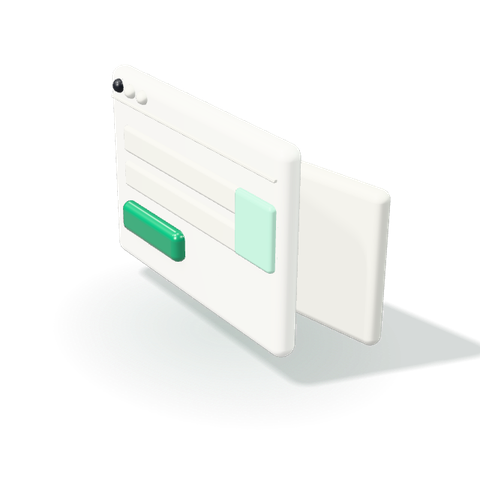
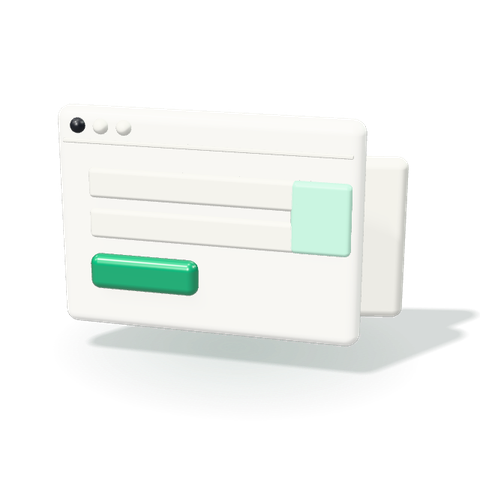
3D pictures face the viewer, with a slight turn
Claude-Session: https://claude.ai/code/session_01M8mVGp54qU5iD1TZV71TXS

Changed region(s): [[0.1562, 0.2812, 1.0, 0.8125], [0.125, 0.25, 0.2812, 0.3125], [0.2188, 0.1562, 0.3125, 0.2188]]

diff --git a/scripts/empty-art/scene.js b/scripts/empty-art/scene.js
@@ -128,7 +128,7 @@ const PICTURES = {
     const c2 = at(box(0.62, 0.26, 0.08, 0.12, M.paleBlue), 0.36, 0.84, 0.11);
     const btn = at(box(1.35, 0.34, 0.14, 0.16, M.ink), 0, 0.4, 0.13);
     const arrow = at(stroke([[-0.12, 0, 0], [0.12, 0, 0], [0.04, 0.08, 0], [0.12, 0, 0], [0.04, -0.08, 0]], 0.025, M.porcelain), 0, 0.4, 0.22);
-    return at(group(card, title, f1, f2, c1, c2, btn, arrow), 0, 0, 0, 0, -0.3, 0);
+    return at(group(card, title, f1, f2, c1, c2, btn, arrow), 0, 0, 0, 0, 0, 0);
   },
   /** Capture: a funnel with leads dropping in and one coming out green. */
   funnel() {
@@ -154,7 +154,7 @@ const PICTURES = {
       g.add(at(ball(0.07, dot), dx - 0.72, y + 0.17, 0.585 - dx * 0.6 + dx * 0.26));
       g.add(at(box(0.9, 0.08, 0.04, 0.03, mat === M.blue ? M.porcelain : M.shade), dx - 0.1, y + 0.17, 0.585 - dx * 0.6 + dx * 0.15));
     }
-    return at(g, 0, 0, 0, 0, -0.25, 0);
+    return at(g, 0, 0, 0, 0, 0, 0);
   },
   /** Chain: steps joined on a path, one branch reaching the green goal. */
   road() {
@@ -168,7 +168,7 @@ const PICTURES = {
     const flag = group(stroke([[0, 0, 0], [0, 1.05, 0]], 0.05, M.ink), at(box(0.5, 0.34, 0.06, 0.04, M.blue), 0.27, 0.86, 0));
     flag.position.set(0.85, 0.44, 0.75);
     g.add(flag);
-    return g;
+    return at(g, 0, 0, 0, 0.45, 0, 0);
   },
   /** Workflows: a paper plane on its way, with a green trail. */
   plane() {
@@ -184,7 +184,7 @@ const PICTURES = {
     };
     const plane = group(tri([N, L, C], M.porcelain), tri([N, C, R], M.paleShade), tri([N, K, C], M.shade), tri([N, C, K], M.shade));
     plane.scale.setScalar(1.25);
-    const PR = (params.get("rot") || "-0.25,0,-0.3,1.9").split(",").map(Number);
+    const PR = (params.get("rot") || "0.5,0,0,1.85").split(",").map(Number);
     plane.rotation.set(PR[0], PR[1], PR[2]);
     const flying = group(plane);
     flying.rotation.y = PR[3];
@@ -211,7 +211,7 @@ const PICTURES = {
     a2.rotation.y = Math.PI - 0.45;
     a2.position.set(-0.4, 1.65, -0.25);
     const a3 = at(arrow(1.1, M.shade), 0.38, 1.12, 0.12, 0, -0.45, 0);
-    return at(group(base, post, cap, a1, a2, a3), 0, 0, 0, 0, -0.25, 0);
+    return at(group(base, post, cap, a1, a2, a3), 0, 0, 0, 0, 0, 0);
   },
   /** Emails: a sealed envelope over a second one. */
   envelopes() {
@@ -224,7 +224,7 @@ const PICTURES = {
     seal.position.set(0, 0.62, 0.12);
     const l1 = stroke([[-0.98, 0.06, 0.11], [-0.3, 0.55, 0.11]], 0.02, M.shade);
     const l2 = stroke([[0.98, 0.06, 0.11], [0.3, 0.55, 0.11]], 0.02, M.shade);
-    return at(group(back, body, flap, seal, l1, l2), 0, 0, 0, 0, -0.3, 0);
+    return at(group(back, body, flap, seal, l1, l2), 0, 0, 0, 0, 0, 0);
   },
   /** Feed: a page with its form and the green button. */
   browser() {
@@ -236,7 +236,7 @@ const PICTURES = {
     const btn = at(box(0.8, 0.26, 0.14, 0.13, M.blue), -0.45, 0.46, 0.12);
     const pic = at(box(0.42, 0.52, 0.09, 0.04, M.paleBlue), 0.82, 0.97, 0.1);
     const back = at(box(1.6, 1.25, 0.16, 0.1, M.shade), 0.55, 0.62, -0.5, 0, 0.18, 0);
-    return at(group(back, frame, bar, ...dots, f1, f2, btn, pic), 0, 0, 0, 0, -0.32, 0);
+    return at(group(back, frame, bar, ...dots, f1, f2, btn, pic), 0, 0, 0, 0, 0, 0);
   },
   /** People: contact cards. */
   megaphone() {
@@ -248,7 +248,7 @@ const PICTURES = {
     body.scale.set(1, 0.42, 0.3);
     const l1 = at(box(0.9, 0.1, 0.06, 0.03, M.shade), 0, 0.38, 0.11);
     const l2 = at(box(0.56, 0.1, 0.06, 0.03, M.shade), 0, 0.22, 0.11);
-    return at(group(back, front, head, body, l1, l2), 0, 0, 0, 0, -0.3, 0);
+    return at(group(back, front, head, body, l1, l2), 0, 0, 0, 0, 0, 0);
   },
   /** Settings: two gears, the small one green. */
   gear() {
@@ -275,7 +275,7 @@ const PICTURES = {
     small.rotation.z = 0.3;
     const hub1 = at(puck(0.22, 0.42, 0.06, M.shade), -0.3, 1.15, -0.21, Math.PI / 2, 0, 0);
     const hub2 = at(puck(0.12, 0.46, 0.05, M.porcelain), 0.98, 0.72, -0.11, Math.PI / 2, 0, 0);
-    return at(group(big, small, hub1, hub2), 0, 0, 0, 0, -0.3, 0);
+    return at(group(big, small, hub1, hub2), 0, 0, 0, 0, 0, 0);
   },
   /** Meetings: a desk calendar with six time slots, one booked in green. */
   calendar() {
@@ -292,7 +292,7 @@ const PICTURES = {
       }
     face.rotation.x = -0.18;
     const leg = at(box(0.7, 0.14, 0.9, 0.06, M.shade), 0, 0.07, -0.45);
-    return at(group(face, leg), 0, 0, 0, 0, -0.3, 0);
+    return at(group(face, leg), 0, 0, 0, 0, 0, 0);
   },
   /** Sync: two arrows chasing each other round, one green. */
   sync() {
@@ -312,7 +312,7 @@ const PICTURES = {
       return g;
     };
     const g = group(arc(Math.PI * 0.15, Math.PI * 0.85, M.blue), arc(Math.PI * 1.15, Math.PI * 1.85, M.porcelain));
-    return at(g, 0, 1.25, 0, -0.1, 0.35, 0);
+    return at(g, 0, 1.25, 0, -0.06, 0.1, 0);
   },
   /** Your domain: a globe with a green orbit. */
   domain() {
@@ -340,7 +340,7 @@ const PICTURES = {
     const t1 = at(box(0.36, 0.16, 0.16, 0.05, M.porcelain), 0.2, -1.75, 0);
     const t2 = at(box(0.26, 0.14, 0.16, 0.05, M.porcelain), 0.15, -1.98, 0);
     const k = group(bow, shaft, tip, collar, t1, t2);
-    k.rotation.set(0.1, 0.45, -0.8);
+    k.rotation.set(0.05, 0.15, -0.8);
     k.position.set(0, 1.3, 0);
     return k;
   },
@@ -414,7 +414,7 @@ scene.add(blob);
 const camera = new THREE.PerspectiveCamera(24, 1, 0.1, 100);
 const fit = new THREE.Box3().setFromObject(holder, true);
 const sphere = fit.getBoundingSphere(new THREE.Sphere());
-const dir = new THREE.Vector3(0.95, 0.8, 1.35).normalize();
+const dir = new THREE.Vector3(0.36, 0.5, 1.5).normalize();
 let dist = sphere.radius / Math.sin(THREE.MathUtils.degToRad(12));
 const corners = [];
 for (const x of [fit.min.x, fit.max.x]) for (const y of [fit.min.y, fit.max.y]) for (const z of [fit.min.z, fit.max.z]) corners.push(new THREE.Vector3(x, y, z));
